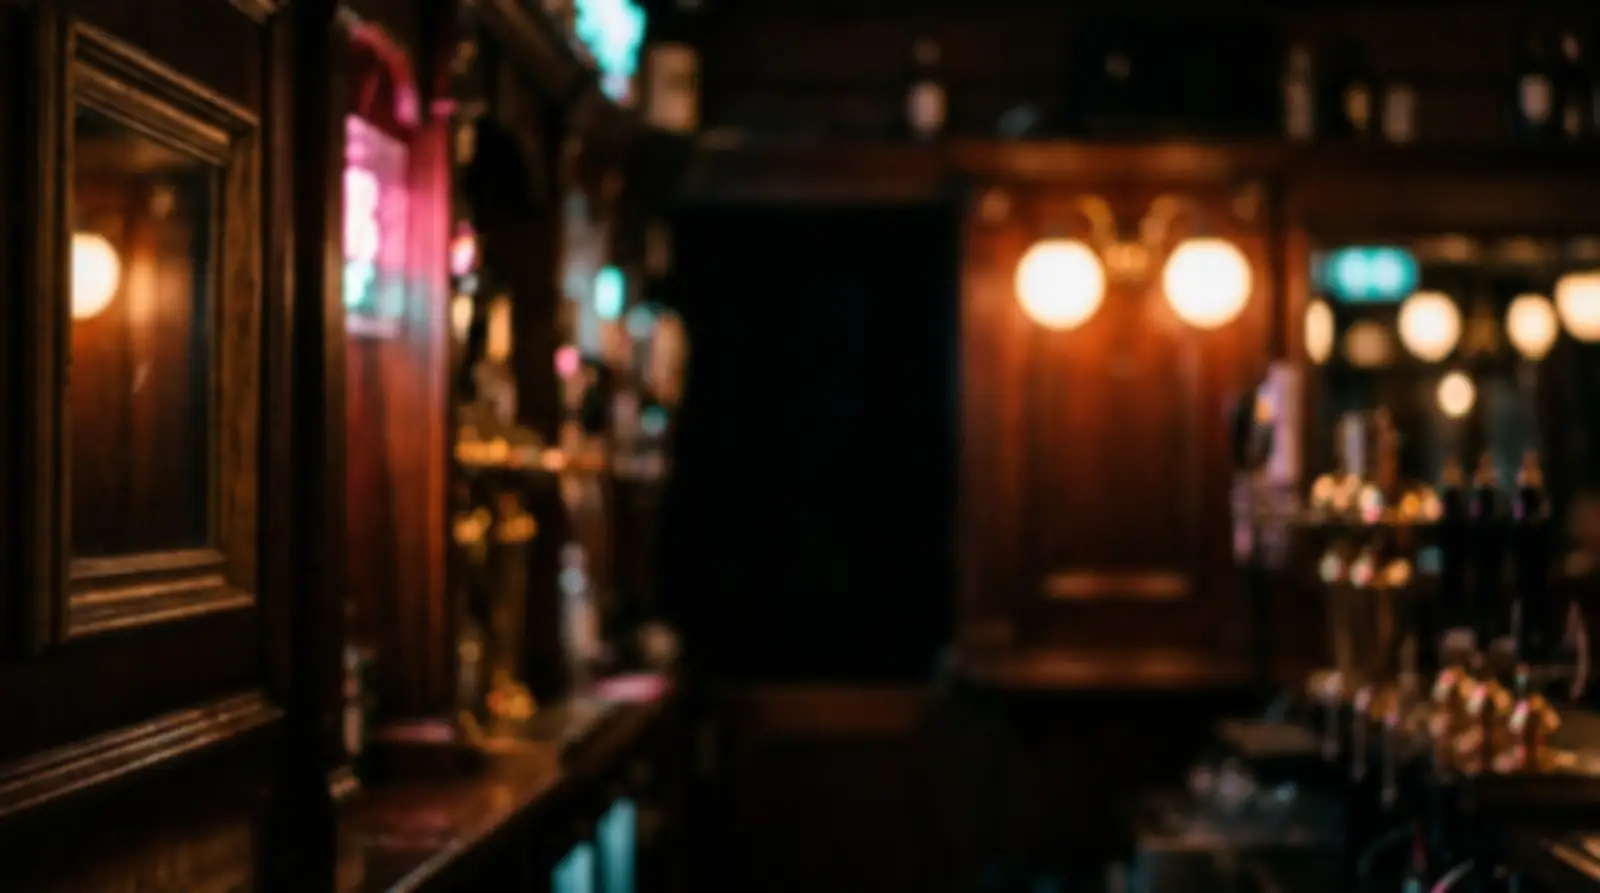
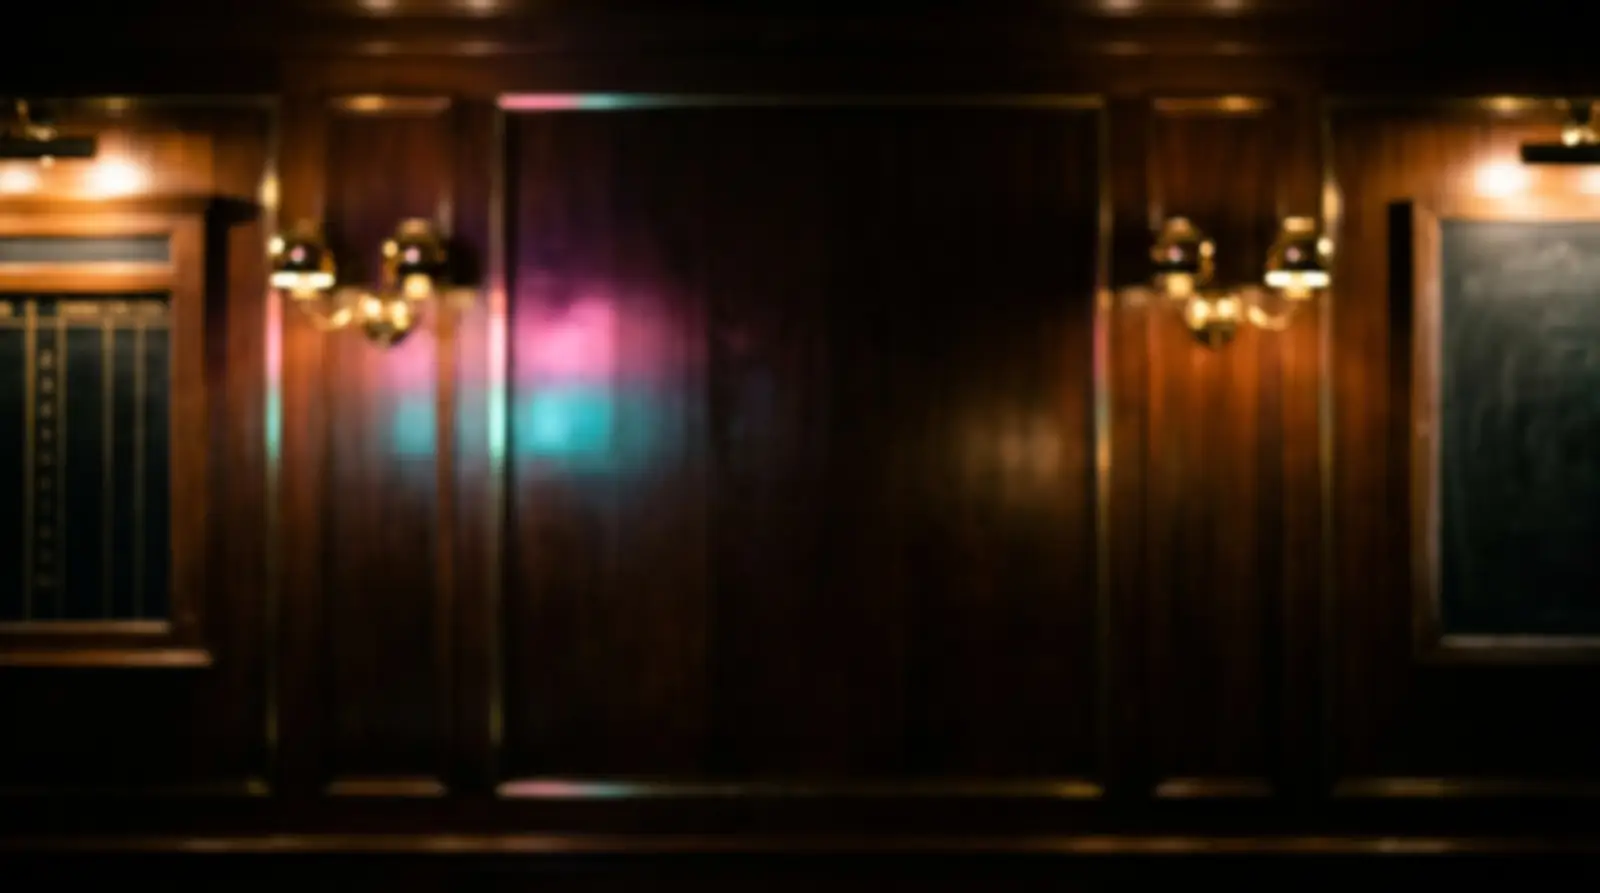
Swap confetti for light effects, drop alcohol from backgrounds, prepare looks
- No more paper confetti: celebrations are brass sparks, rising gold glints and a swarm of embers
- On the final the spotlights swing onto the winner; the scoreboard leader gets a warm pool of light
- New scoreboard and finale backgrounds without bottles or taps (wood, brass and neon stay)
- Lobby ambient is soft coloured bokeh instead of bubbles
- Backgrounds are CSS variables in base.css so other looks (party, company, retro) can override them later

Claude-Session: https://claude.ai/code/session_01RpQUqAX2H9WJuKHPq7TTtM

diff --git a/public/js/fx.js b/public/js/fx.js
@@ -1,4 +1,4 @@
-// Quizbrew effects: ambient light particles and bursts (confetti, sparks) on two light canvases.
+// Quizbrew effects: ambient light particles and bursts made of light only (sparks, glints): nothing falls on two light canvases.
 // Built for cheap laptops and old phones: one glow sprite drawn with drawImage, no shadowBlur,
 // max 30 fps, fewer particles on weak devices, paused when the tab is hidden, off with reduced motion.
 // Add ?fx=off|low|high to the URL to force a level.
@@ -9,13 +9,13 @@
   const quality = forced || (reduced ? 'off' : weak ? 'low' : 'high');
   document.documentElement.classList.add('fx-' + quality);
 
-  const FX = { quality, ambient() {}, confetti() {}, sparks() {}, rain() {}, clear() {} };
+  const noop = () => {};
+  const FX = { quality, ambient: noop, sparks: noop, sparksAt: noop, glints: noop, celebrate: noop, confetti: noop, rain: noop, swarm: noop, clear: noop };
   window.FX = FX;
   if (quality === 'off') return;
 
   const DPR = Math.min(window.devicePixelRatio || 1, quality === 'high' ? 1.5 : 1);
   const FRAME = 1000 / 30;
-  const PALETTE = ['#ffb43c', '#ff4fa3', '#3ee6ff', '#a8ff3e', '#f6d48c', '#b07cff'];
 
   function layer(cls) {
     const c = document.createElement('canvas');
@@ -58,11 +58,12 @@
   const pick = a => a[(Math.random() * a.length) | 0];
   const scale = quality === 'high' ? 1 : 0.45;
 
-  // Ambient modes. dust: warm motes floating up. bubbles: beer bubbles rising. embers: gold sparkles.
+  // Ambient modes. dust: warm motes floating up. lights: soft coloured bokeh. embers: gold sparkles.
   const MODES = {
     dust: { n: 46, colors: ['#ffb43c', '#f6d48c', '#ffcf8a'], size: [3, 9], vy: [-6, -18], vx: 6, alpha: [0.15, 0.5] },
-    bubbles: { n: 46, colors: ['#ffd27a', '#f6d48c', '#ff9fd0', '#9feaff'], size: [5, 18], vy: [-18, -50], vx: 4, alpha: [0.3, 0.7], ring: true },
+    lights: { n: 50, colors: ['#ffb43c', '#f6d48c', '#ff9fd0', '#9feaff'], size: [4, 14], vy: [-5, -16], vx: 8, alpha: [0.15, 0.55] },
     embers: { n: 70, colors: ['#ffcf5a', '#ffb43c', '#fff0b0', '#ff4fa3'], size: [3, 10], vy: [-10, -30], vx: 10, alpha: [0.25, 0.8] },
+    swarm: { n: 160, colors: ['#ffcf5a', '#ffb43c', '#fff0b0', '#f6d48c'], size: [3, 12], vy: [-25, -70], vx: 14, alpha: [0.3, 0.9] },
     stage: { n: 28, colors: ['#ffe2a8', '#f6d48c'], size: [2, 6], vy: [-3, -9], vx: 5, alpha: [0.15, 0.45] },
   };
   let mode = null;
@@ -88,21 +89,27 @@
   const MAX_BITS = quality === 'high' ? 600 : 180;
   function add(p) { if (bits.length < MAX_BITS) bits.push(p); }
 
-  // Paper confetti from a point (x, y in px), shot upwards.
-  FX.confetti = function ({ x = W / 2, y = H / 2, colors = PALETTE, count = 120, spread = 1, dir = -Math.PI / 2, cone = Math.PI * 0.4 } = {}) {
+  // Light only, nothing falls: rising gold glints, and a burst of brass sparks.
+  // Golden light motes welling up from a point (or a line of width w) and fading as they rise.
+  FX.glints = function ({ x = W / 2, y = H / 2, width = 0, count = 50, colors = ['#ffcf5a', '#fff0b0', '#f6d48c'] } = {}) {
     for (let i = 0; i < count * scale; i++) {
-      const ang = dir + rnd(-cone, cone);
-      const sp = rnd(250, 750) * spread;
-      add({ k: 'paper', x, y, vx: Math.cos(ang) * sp, vy: Math.sin(ang) * sp, g: 900, drag: 1.6, c: pick(colors), w: rnd(6, 12), h: rnd(4, 8), r: rnd(0, 6.28), vr: rnd(-12, 12), life: rnd(2.2, 3.6) });
+      add({ k: 'glint', x: x + rnd(-width / 2, width / 2), y: y + rnd(-8, 8), vx: rnd(-50, 50), vy: rnd(-260, -70), g: -20, drag: 1.4, c: pick(colors), s: rnd(8, 22), ph: rnd(0, 6.28), life: rnd(1.2, 2.6) });
     }
     wake();
   };
-  // Confetti falling from the top of the screen for a while.
-  FX.rain = function ({ colors = PALETTE, seconds = 4, perSecond = 90 } = {}) {
-    rainLeft = seconds; rainRate = perSecond * scale; rainColors = colors;
-    wake();
+  // A celebration made of light: a big spark burst plus glints rising. Kept under the old name too.
+  FX.celebrate = FX.confetti = function ({ x = W / 2, y = H / 2, colors, count = 80 } = {}) {
+    const c = colors && colors[0] ? colors[0] : '#ffcf5a';
+    FX.sparks({ x, y, color: '#ffcf5a', count: count * 0.6, speed: 1.3 });
+    FX.sparks({ x, y, color: c, count: count * 0.4, speed: 1 });
+    FX.glints({ x, y, width: 160, count: count * 0.5 });
   };
-  let rainLeft = 0, rainRate = 0, rainColors = PALETTE;
+  // For a while, the ambient particles turn into a thick swarm of embers.
+  FX.rain = FX.swarm = function ({ seconds = 5 } = {}) {
+    const before = mode;
+    FX.ambient(null); FX.ambient('swarm');
+    setTimeout(() => { if (mode === 'swarm') FX.ambient(before === 'swarm' ? 'embers' : before); }, seconds * 1000);
+  };
   // Glowing sparks from a point, all directions.
   FX.sparks = function ({ x = W / 2, y = H / 2, color = '#ffb43c', count = 40, speed = 1 } = {}) {
     for (let i = 0; i < count * scale; i++) {
@@ -118,7 +125,7 @@
     const b = el.getBoundingClientRect();
     FX.sparks({ x: b.left + b.width / 2, y: b.top + b.height / 2, ...opts });
   };
-  FX.clear = function () { bits = []; rainLeft = 0; front.ctx.clearRect(0, 0, W, H); };
+  FX.clear = function () { bits = []; front.ctx.clearRect(0, 0, W, H); };
 
   // One loop for both layers. It stops itself when there is nothing to draw.
   let raf = 0, last = 0, acc = 0;
@@ -135,7 +142,7 @@
       drawAmbient(dt, now / 1000);
       drawBits(dt);
     }
-    if (motes.length || bits.length || rainLeft > 0) raf = requestAnimationFrame(loop);
+    if (motes.length || bits.length) raf = requestAnimationFrame(loop);
   }
 
   function drawAmbient(dt, t) {
@@ -151,16 +158,8 @@
       if (p.y < -30) motes[i] = spawnMote(m, false);
       const a = p.a * (0.6 + 0.4 * Math.sin(t * p.tw * 2 + p.ph));
       g.globalAlpha = a;
-      if (m.ring) {
-        // A bubble: thin ring with a small highlight.
-        const r = p.s * 0.6;
-        g.strokeStyle = p.c; g.lineWidth = 1.6;
-        g.beginPath(); g.arc(p.x, p.y, r, 0, 6.28); g.stroke();
-        g.drawImage(glow(p.c), p.x - r * 0.9, p.y - r * 0.9, r * 0.9, r * 0.9);
-      } else {
-        const d = p.s * 3;
-        g.drawImage(glow(p.c), p.x - d / 2, p.y - d / 2, d, d);
-      }
+      const d = p.s * 3;
+      g.drawImage(glow(p.c), p.x - d / 2, p.y - d / 2, d, d);
     }
     g.globalAlpha = 1;
     g.globalCompositeOperation = 'source-over';
@@ -168,29 +167,21 @@
 
   function drawBits(dt) {
     const g = front.ctx;
-    if (rainLeft > 0) {
-      rainLeft -= dt;
-      for (let i = 0; i < rainRate * dt; i++) {
-        add({ k: 'paper', x: rnd(0, W), y: -20, vx: rnd(-60, 60), vy: rnd(80, 260), g: 260, drag: 0.6, c: pick(rainColors), w: rnd(7, 13), h: rnd(4, 8), r: rnd(0, 6.28), vr: rnd(-8, 8), life: 6 });
-      }
-    }
     if (!bits.length) { g.clearRect(0, 0, W, H); return; }
     g.clearRect(0, 0, W, H);
     const keep = [];
     for (const p of bits) {
       p.life -= dt;
-      if (p.life <= 0 || p.y > H + 40) continue;
+      if (p.life <= 0 || p.y > H + 40 || p.y < -60) continue;
       const k = Math.exp(-p.drag * dt);
       p.vx *= k; p.vy = p.vy * k + p.g * dt;
       p.x += p.vx * dt; p.y += p.vy * dt;
-      if (p.k === 'paper') {
-        p.r += p.vr * dt;
-        g.globalAlpha = Math.min(1, p.life * 1.5);
-        g.fillStyle = p.c;
-        g.save(); g.translate(p.x, p.y); g.rotate(p.r);
-        g.fillRect(-p.w / 2, -p.h / 2 * Math.abs(Math.cos(p.r * 1.7)), p.w, p.h * Math.abs(Math.cos(p.r * 1.7)) + 0.5);
-        g.restore();
-      } else {
+      if (p.k === 'glint') {
+        p.x += Math.sin(p.life * 6 + p.ph) * 20 * dt;
+        g.globalCompositeOperation = 'lighter';
+        g.globalAlpha = Math.min(1, p.life) * (0.6 + 0.4 * Math.sin(p.life * 14 + p.ph));
+        g.drawImage(glow(p.c), p.x - p.s / 2, p.y - p.s / 2, p.s, p.s);
+        g.globalCompositeOperation = 'source-over';      } else {
         g.globalCompositeOperation = 'lighter';
         g.globalAlpha = Math.min(1, p.life * 1.8);
         const d = p.s * Math.min(1, p.life + 0.3);

diff --git a/public/js/screen.js b/public/js/screen.js
@@ -8,7 +8,7 @@
   let lobbyShown = false;
 
   // Ambient particles per phase.
-  const AMBIENT = { idle: 'bubbles', lobby: 'bubbles', roundIntro: 'stage', question: 'dust', reveal: 'dust', scoreboard: 'dust', end: 'embers' };
+  const AMBIENT = { idle: 'lights', lobby: 'lights', roundIntro: 'stage', question: 'dust', reveal: 'dust', scoreboard: 'dust', end: 'embers' };
   const cssColor = name => getComputedStyle(document.body).getPropertyValue(name).trim();
 
   socket.on('language', async lang => {
@@ -28,7 +28,7 @@
     // Re-render only what changed, so animations play once.
     const key = [s.phase === 'reveal' ? 'question' : s.phase, s.round && s.round.index, s.questionIndex].join(':');
     const fresh = force || key !== lastKey;
-    if (key !== lastKey) { clearLater(); FX.clear(); }
+    if (key !== lastKey) { clearLater(); FX.clear(); document.body.classList.remove('spot-winner'); }
     lastKey = key;
     document.body.classList.remove('urgent');
     if (s.phase !== 'lobby') lobbyShown = false;
@@ -166,9 +166,10 @@
         row.querySelector('.crown-wrap').innerHTML = CROWN;
         later(() => {
           const b = row.getBoundingClientRect();
-          const colors = [cssColor('--team-' + r.color), '#f6d48c', '#ffb43c', '#ffffff'];
-          FX.confetti({ x: b.left + b.width * 0.25, y: b.top + b.height / 2, colors, count: 90 });
-          FX.confetti({ x: b.left + b.width * 0.75, y: b.top + b.height / 2, colors, count: 90 });
+          const colors = [cssColor('--team-' + r.color)];
+          FX.celebrate({ x: b.left + 40, y: b.top + b.height / 2, colors, count: 70 });
+          FX.celebrate({ x: b.right - 40, y: b.top + b.height / 2, colors, count: 70 });
+          FX.glints({ x: b.left + b.width / 2, y: b.top, width: b.width * 0.8, count: 60 });
         }, (delay + 0.55) * 1000);
       }
       return row;
@@ -187,14 +188,16 @@
     $('#rest').replaceChildren(...rows.slice(3).map(r => h('li', { style: teamVar(r.color) }, h('span', { class: 'rank' }, r.rank), h('span', { class: 'team-dot' }), r.name, h('span', { class: 'score' }, r.score))));
     const winner = rows[0];
     if (!winner) return;
-    // The winner lands at about 2.3 s: cannons from both corners, then confetti rain.
-    const colors = [cssColor('--team-' + winner.color), '#f6d48c', '#ffb43c', '#ffffff', '#ff4fa3', '#3ee6ff'];
+    // The winner lands at about 2.3 s: the spots swing onto the podium, brass sparks fly, gold light swarms up.
+    const colors = [cssColor('--team-' + winner.color)];
+    document.body.classList.remove('spot-winner');
     later(() => {
-      FX.confetti({ x: 0, y: innerHeight, colors, count: 160, spread: 2.6, dir: -Math.PI * 0.3, cone: Math.PI * 0.12 });
-      FX.confetti({ x: innerWidth, y: innerHeight, colors, count: 160, spread: 2.6, dir: -Math.PI * 0.7, cone: Math.PI * 0.12 });
-      FX.sparksAt($('.place1 .medal'), { color: '#ffcf5a', count: 90, speed: 1.5 });
+      document.body.classList.add('spot-winner');
+      const m = $('.place1 .medal').getBoundingClientRect();
+      FX.celebrate({ x: m.left + m.width / 2, y: m.top + m.height / 2, colors, count: 140 });
+      FX.glints({ x: m.left + m.width / 2, y: m.top, width: m.width * 4, count: 90 });
     }, 2300);
-    later(() => FX.rain({ colors, seconds: 6 }), 2700);
+    later(() => FX.swarm({ seconds: 8 }), 2600);
   }
 
 })();

diff --git a/public/css/screen.css b/public/css/screen.css
@@ -12,11 +12,11 @@ body.screen {
   animation: drift 48s ease-in-out infinite alternate paused;
   will-change: opacity, transform;
 }
-.bg-lobby { background-image: url('/img/bg-lobby.webp'); }
-.bg-stage { background-image: url('/img/bg-stage.webp'); animation-name: drift-in; }
-.bg-play { background-image: url('/img/bg-screen.webp'); }
-.bg-board { background-image: url('/img/bg-board.webp'); }
-.bg-finale { background-image: url('/img/bg-finale.webp'); animation-name: drift-in; }
+.bg-lobby { background-image: var(--bg-lobby); }
+.bg-stage { background-image: var(--bg-stage); animation-name: drift-in; }
+.bg-play { background-image: var(--bg-play); }
+.bg-board { background-image: var(--bg-board); }
+.bg-finale { background-image: var(--bg-finale); animation-name: drift-in; }
 body:not([data-phase]) .bg-lobby,
 body[data-phase="idle"] .bg-lobby,
 body[data-phase="lobby"] .bg-lobby,
@@ -53,6 +53,17 @@ body[data-phase="end"] .beams { opacity: 1; }
 .beams i:nth-child(2) { --from: -8deg; --to: 8deg; animation-duration: 7s; animation-delay: -3s; background: linear-gradient(90deg, transparent, color-mix(in srgb, var(--theme, var(--neon-pink)) 22%, transparent) 50%, transparent); }
 .beams i:nth-child(3) { left: 78%; --from: 24deg; --to: -10deg; animation-delay: -5s; }
 body[data-phase="end"] .beams i { animation-duration: 4.5s; }
+/* When the winner is known, the spots swing onto the podium and stay there, brighter. */
+body.spot-winner .beams i { animation: none; transform: rotate(var(--aim, 0deg)); transition: transform 1.2s cubic-bezier(.3, 1.3, .5, 1), filter 1.2s; filter: brightness(1.7); }
+.beams i:nth-child(1) { --aim: -14deg; }
+.beams i:nth-child(3) { --aim: 14deg; }
+/* The leader on the scoreboard lights up: a warm pool of light behind the row. */
+.sb-row.top1::before {
+  content: ''; position: absolute; inset: -4vh -6%; pointer-events: none; z-index: -1;
+  background: radial-gradient(ellipse at 50% 50%, rgba(255, 210, 130, .32), rgba(255, 180, 60, .1) 45%, transparent 70%);
+  opacity: 0; animation: spot-on 1s ease-out both; animation-delay: calc(var(--d, 0s) + .4s);
+}
+@keyframes spot-on { 0% { opacity: 0; } 30% { opacity: 1; } 45% { opacity: .4; } 60%, 100% { opacity: 1; } }
 @keyframes swing { from { transform: rotate(var(--from, -10deg)); } to { transform: rotate(var(--to, 10deg)); } }
 .fx-low .beams i { animation: none; transform: rotate(calc(var(--from, 0deg) / 2)); }
 

diff --git a/public/js/play.js b/public/js/play.js
@@ -134,13 +134,13 @@
     });
   }
 
-  // Confetti in the team colour (and brass) from an element.
+  // Brass sparks and gold light in the team colour from an element. Light only, nothing falls.
   function celebrate(el, power) {
     const b = el.getBoundingClientRect();
     const me = getComputedStyle(document.body).getPropertyValue('--me').trim();
     const team = state && state.team ? getComputedStyle(document.body).getPropertyValue('--team-' + state.team.color).trim() : me;
-    FX.confetti({ x: b.left + b.width / 2, y: b.top + b.height / 2, colors: [team, '#f6d48c', '#ffffff', '#ffb43c'], count: 70 * power, spread: 0.8 });
-    if (power > 1) FX.rain({ colors: [team, '#f6d48c', '#ffffff'], seconds: 3, perSecond: 40 });
+    FX.celebrate({ x: b.left + b.width / 2, y: b.top + b.height / 2, colors: [team], count: 60 * power });
+    if (power > 1) FX.glints({ x: innerWidth / 2, y: innerHeight, width: innerWidth, count: 70 });
   }
 
   function renderResult(s, fresh) {

diff --git a/public/css/base.css b/public/css/base.css
@@ -40,6 +40,15 @@
   --team-mint: #9dffd6;
   --team-rose: #ffa3c4;
 
+  /* Look: the pub theme. A future theme (company, party, retro...) only overrides these and the colours above,
+     for example under :root[data-look="party"]. */
+  --bg-lobby: url('/img/bg-lobby.webp');
+  --bg-stage: url('/img/bg-stage.webp');
+  --bg-play: url('/img/bg-screen.webp');
+  --bg-board: url('/img/bg-board.webp');
+  --bg-finale: url('/img/bg-finale.webp');
+  --bg-phone: url('/img/bg-phone.webp');
+
   /* Answer colours A B C D */
   --ans-0: #ffb43c;
   --ans-1: #ff4fa3;

diff --git a/public/css/play.css b/public/css/play.css
@@ -2,7 +2,7 @@
 body.phone {
   --me: var(--brass);
   min-height: 100%;
-  background: url('/img/bg-phone.webp') center / cover fixed no-repeat, var(--wood-900);
+  background: var(--bg-phone) center / cover fixed no-repeat, var(--wood-900);
   font-size: 17px;
   overflow-x: hidden;
 }
